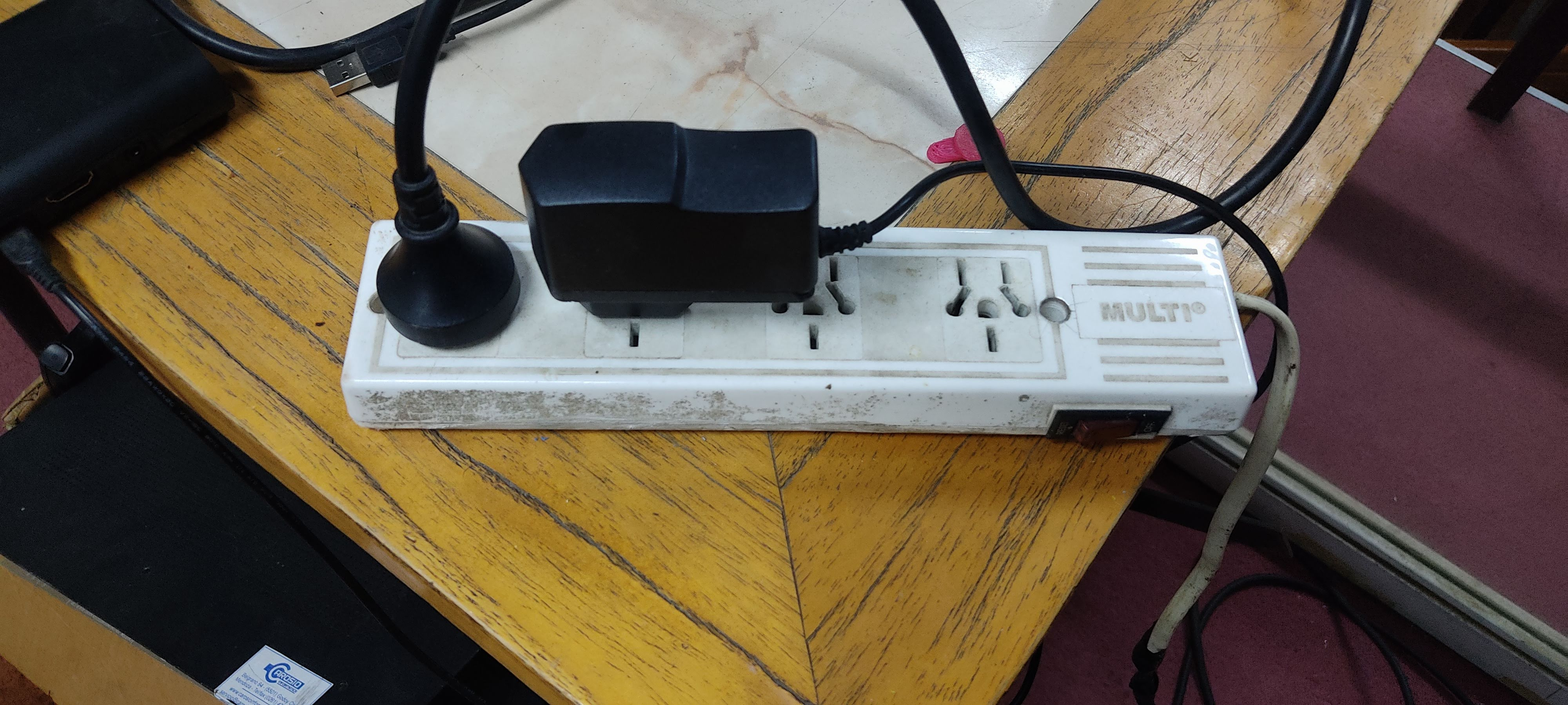
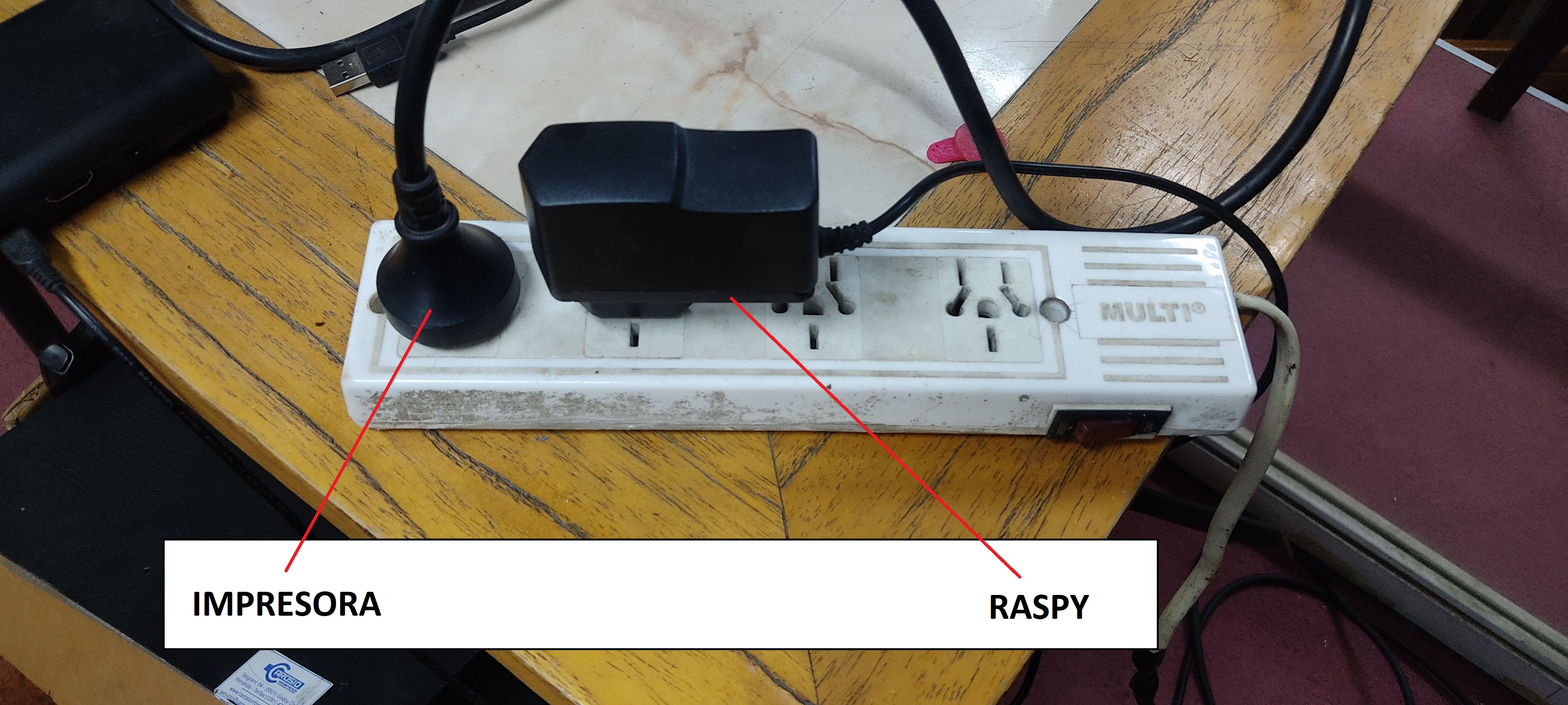
procedimiento completo de uso de la impresora 3D. Agregué el resto de las imagenes. Es suficiente para usar la impresora en principio, se pueden agegar mas cosas o corregir las cosas que estén mas escritas.

diff --git a/impresora/procedimiento.md b/impresora/procedimiento.md
@@ -1,13 +1,18 @@
 # Procedimiento
+> VER LAS [PRECAUCIONES](./info.md#precauciones-de-uso) DE USO
 0. Prender la impresora.
-    * En la zapatilla está conectada, por un lado, la impresora y, por otro lado, una Raspberry Pi, que es la que corre el servidor de [Octoprint](https://octoprint.org) para poder imprimir desde la computadora (Fijarse que la zapatilla esté conectada y prendida).
+    * En la zapatilla está conectada, por un lado, la impresora y, por otro lado, una Raspberry Pi, que es la que corre el servidor de [Octoprint](https://octoprint.org) para poder imprimir desde la computadora (Fijarse que la zapatilla esté conectada y prendida y que la impresora y la raspy esten conectadas).
     > No hace falta descargar nada para usar Octoprint.
 
     ![boton de encendido](./imagenes/boton.jpg)
     ![zapatilla](./imagenes/zapatilla.jpg)
+
 1. Limpiar la cama.
+
 2. [Nivelar la cama](./nivelación.md).
+
 3. Descargar el archivo STL de la pieza a imprimir.
+
 4. Luego de haber instalado y configurado el slicer de acuerdo con el documento de [instalación](./apps-y-archivos-requeridos.md), seguir los siguientes pasos en la pestaña "Preparar":
     * Agregar el objeto (STL de la/s pieza/s).
 
@@ -18,16 +23,73 @@
     * Generar el código G (Gcode).
     ![Paso 13](imagenes/instalacion-orca-13.png)
 > Nota: Los pasos siguientes también se pueden hacer de [forma manual](./control-con-lcd.md) sin utilizar la computadora, a través de los comandos de la pantalla LED de la propia impresora.
+
 5. Entrar a [Octoprint en esta URL](https://mecabot.ingenieria) e ingresar utilizando las credenciales.
+
 <p align="center">
-  <img src="./imagenes/octoprint-1.png" />
+  <img src="./imagenes/octoprint-1.png" width = "300"/>
 </p>
 
 > Lo anterior es para cuando se está conectado a la red de MECACUEVA o a cualquiera de las redes del DETI I. Para poder controlar la impresora desde otra red usamos [Tailscale](https://tailscale.com/), para eso seguir los pasos indicados [mas abajo](#obtener-url-para-tailscale)
 
 6. Verificar que la impresora esté conectada a la RASPBERRY a través del cable USB para poder controlarla.
+<p align="center">
+  <img src="./imagenes/conexion-raspy.jpg" width="500" />
+</p>
 
-![Conexión Raspberry](./imagenes/conexion-raspy.png)
+> Cuando está correctamente conectada, la raspy se conecta automáticamente a la impresora por el puerto serie y aparece en el panel izquierdo de Octoprint como se muestra en la siguiente imagen.
+
+<p align="center">
+  <img src="./imagenes/octoprint-2.png" width="400" />
+</p>
+
+Se puede desconectar apretando el botón. Si se desconecta pero está en línea la impresora, va a aparecer el panel izquierdo de la siguiente manera y se puede conectar apretando el botón.
+
+<p align="center">
+  <img src="./imagenes/octoprint-3.png" width="200" />
+</p>
+
+7. Visualizar y controlar la temperatura de la cama y del nozzle en el centro del panel. La azul es la cama y la roja es la temperatura el extrusor.
+Desde "Target" apretando la flecha se deplegan las opciones para setear las temperaturas apropiadas para la cama y el extrusor para los tipos de material que usamos (**PLA** y **PETG**)
+
+<p align="center">
+  <img src="./imagenes/octoprint-4.png" width="500" />
+</p>
+Se puede setear de forma individual para el tool y el bed desde los menus desplegables de cada uno.
+<p align="center">
+  <img src="./imagenes/octoprint-5.png" width="500" />
+</p>
+
+> Se recomienda setear la temperatura con antelación dado que tarda un toque en calentar. Si no se realiza en este momento, de todas maneras, cuando se inicia la impresión la temperatura se setea automáticamente.
+
+> Poner roby para que se fije la pieza a la cama cuando la cama está en la tempratura seteada unos momentos antes de iniciar la impresión.
+
+8. Los controles de movimiento en los ejes se hace desde la pestaña de **Control**.
+<p align="center">
+  <img src="./imagenes/octoprint-6.png" width="500" />
+</p>
+
+La precisión del movimiento en los ejes se controla en milímetros desde los botones
+<p align="center">
+  <img src="./imagenes/octoprint-7.png" width="400" />
+</p>
+
+9. Subir el archivo gcode para imprimir desde le panel izquiero utilizando el botón
+<p align="center">
+  <img src="./imagenes/octoprint-8.png" width="200" />
+</p>
+
+Los archivos se ven en la lista. Aparecen en **verde** si se imprimeron exitosamente, en **rojo** si tuvieron algún error de impresión y **sin color** cuando no se inicio la impresión nunca.
+
+10. Seleccionar el archivo a imprimir de la lista de archivos. Al seleccionarlo, la barra lateral izquierda muestra la información del archivo y también habilita la opción para iniciar la impresión. Apretando **Imprimir** inicia la impresión, la impresora hace homing y comienza a calentar la herramienta y la cama si es que no están en la temperatura.
+<p align="center">
+  <img src="./imagenes/octoprint-9.png" width="200" />
+</p>
+
+> Usar los otros botones cuando haya que detener o parar la impresión.
+
+11. Si todo sale bien, la pieza va a imprimir. Esperar que descienda la temperatura de la cama antes de **retirar la pieza** (alrededor de 20° y 30° de temperatura de la cama sale la pieza con facilidad). En la caja de herramientas que se encuentra en el armario de la Asociación hay una espátula que se puede usar para tratar de despegar la pieza.
+
 
 ## Obtener URL para Tailscale
 * Instalar [Tailscale](https://tailscale.com/download) y crear una [cuenta](https://login.tailscale.com/login)

diff --git a/impresora/info.md b/impresora/info.md
@@ -1,14 +1,14 @@
-Impresora Geeetech Prusa I3 X
+# Impresora Geeetech Prusa I3 X
 
 ![Geeetech Prusa I3 X](https://wiki.geeetech.com/images/d/d0/4.jpg)
 
-Descripción del modelo:
+# Descripción del modelo
 * Impresora 3D FFF de tipo cartesiano.
 * Kit DIY con estructura de acrílico cortado con láser de 8 mm.
 * La [wiki](https://wiki.geeetech.com/index.php/Prusa_I3_X) la presenta como un modelo de bajo costo dentro de la familia Prusa I3.
 * La plataforma de impresión es de aluminio con cama calefaccionada.
 
-Especificaciones técnicas relevantes:
+# Especificaciones técnicas relevantes
 * Volumen de impresión: 200 x 200 x 140 mm.
 * Precisión de impresión: 0.1 a 0.3 mm.
 * Diámetro de filamento: 1.75 mm.
@@ -18,16 +18,18 @@ Especificaciones técnicas relevantes:
 * Temperatura máxima del hotend: aproximadamente 260 °C.
 * Conectividad: USB y tarjeta SD.
 
-Uso y operación local:
+# Uso y operación local:
 * Imprime en PLA y PET-G.
 * Está conectada a una Raspberry Pi, desde la cual se pueden cargar archivos G-code y controlar movimientos, extrusión y temperaturas mediante OcotoPrint
 * También puede operarse desde el panel frontal o cargando archivos mediante tarjeta SD.
 
-Precauciones de uso:
+# Precauciones de uso
 * Nivelar manualmente la cama antes de imprimir.
 * Aplicar fijador de pelo Roby en la cama para mejorar la adherencia de la primera capa.
 * Esperar a que el hotend se enfríe antes de apagar la máquina al finalizar la impresión.
 * Si se conecta o desconecta el taladro mientras la impresora está funcionando, la impresión puede trabarse. La causa probable es una interferencia eléctrica.
+* Esperar que la cama se enfríe lo suficiente antes de intentar retirar la pieza que se imprimió.
+* Verificar que halla suficiente fiilamento antes de iniciar la impresión.
 
 Información adicional:
 * [Geeetech - página del modelo](https://wiki.geeetech.com/index.php/Prusa_I3_X)
